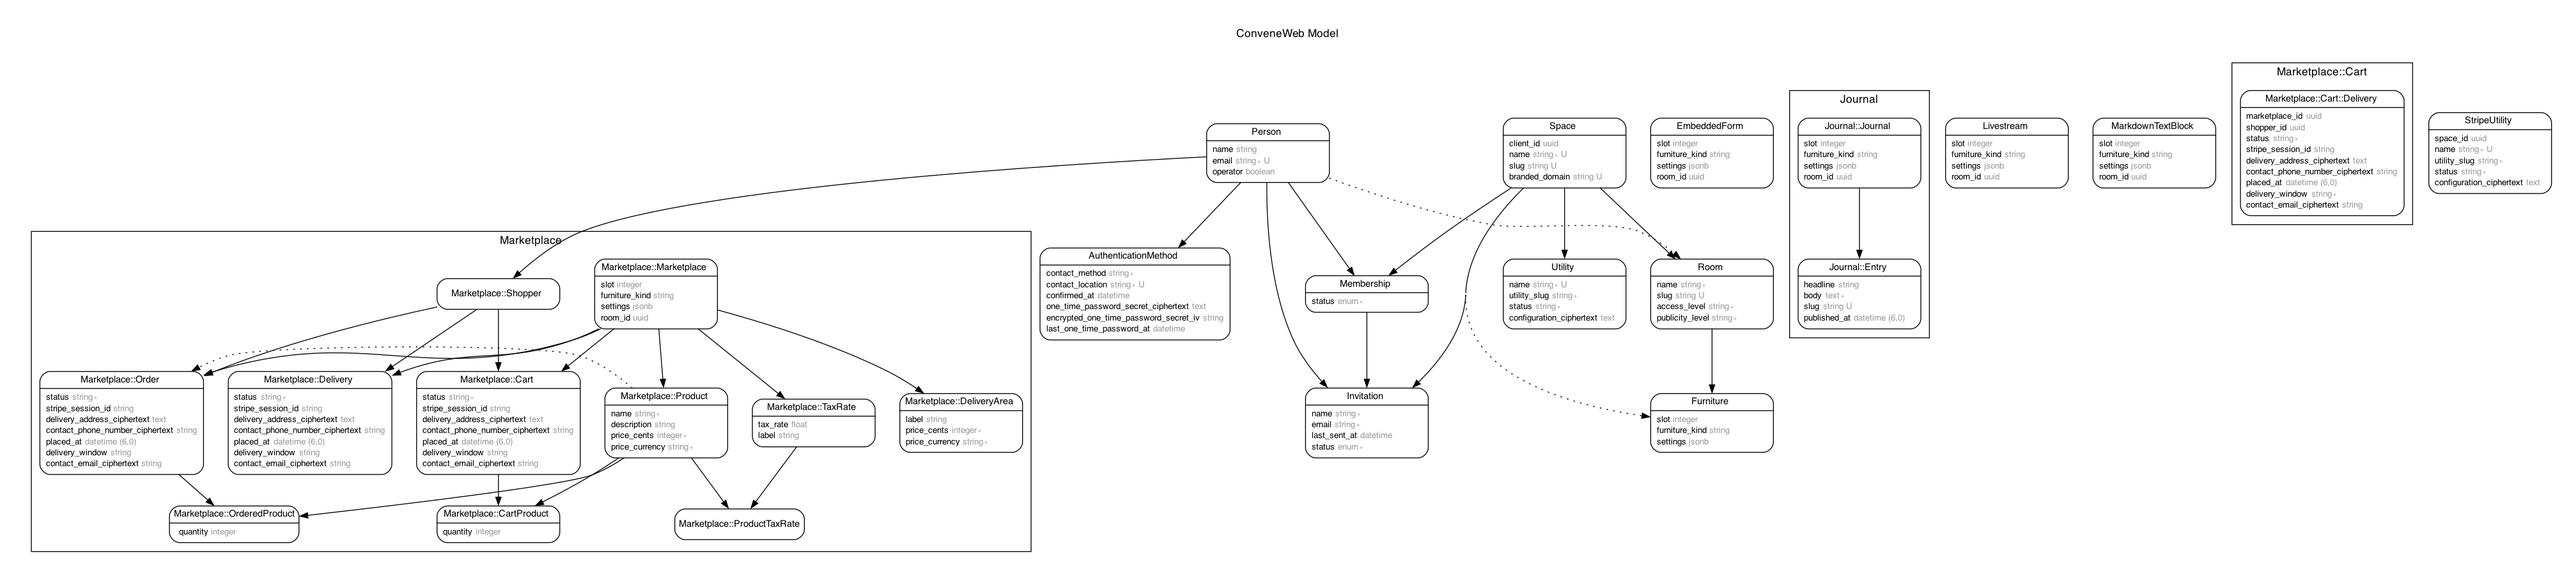
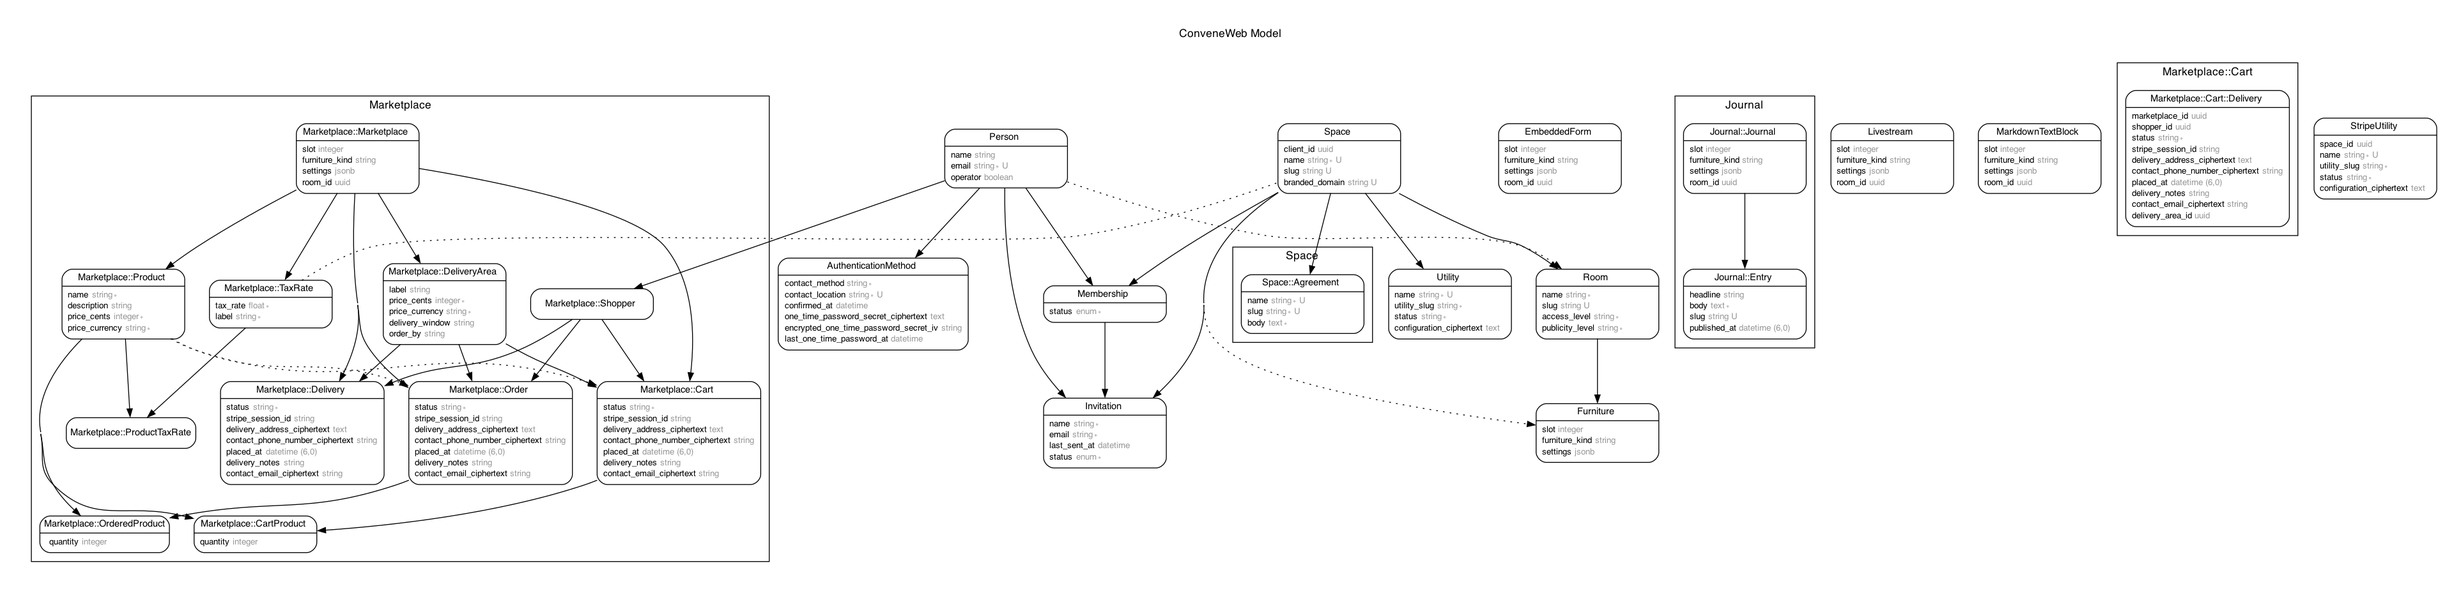
`Marketplace`: `Delivery` constraints live on `DeliveryArea`
- https://github.com/zinc-collective/convene/issues/1325
- https://github.com/zinc-collective/convene/issues/1136
- https://github.com/zinc-collective/convene/issues/1185

Allowing a `Marketplace` to specify it's delivery fees, constraints,
etc. and a `DeliveryArea` to override them was putting us in a bit of a
mess from "how does data even?!"

This consolidates everything onto `DeliveryArea`, yay!

diff --git a/spec/furniture/marketplace/cart/delivery_expectations_component_spec.rb b/spec/furniture/marketplace/cart/delivery_expectations_component_spec.rb
@@ -11,26 +11,32 @@ RSpec.describe Marketplace::Cart::DeliveryExpectationsComponent, type: :componen
   context "when the cart does not have a `delivery_area`" do
     let(:cart) { build(:marketplace_cart, marketplace: marketplace) }
 
-    context "when the `marketplace` has an `order_by` without a `delivery_window`" do
-      let(:marketplace) { build(:marketplace, order_by: "by 8AM") }
+    specify { expect(component.render?).to be_falsey } # rubocop:disable RSpec/PredicateMatcher
+  end
+
+  context "when the cart has a delivey area" do
+    let(:cart) { build(:marketplace_cart, delivery_area: delivery_area, marketplace: marketplace) }
+
+    context "when the `delivery_area` has an `order_by` without a `delivery_window`" do
+      let(:delivery_area) { build(:marketplace_delivery_area, marketplace: marketplace, order_by: "by 8AM") }
 
       it { is_expected.to have_content("Order by 8AM") }
     end
 
-    context "when the `marketplace` has a `delivery_window` without an `order_by`" do
-      let(:marketplace) { build(:marketplace, delivery_window: "at Noon") }
+    context "when the `delivery_area` has a `delivery_window` without an `order_by`" do
+      let(:delivery_area) { build(:marketplace_delivery_area, marketplace: marketplace, delivery_window: "at Noon") }
 
       it { is_expected.to have_content("Orders are delivered at Noon", normalize_ws: true) }
     end
 
-    context "when the `marketplace` has `delivery_window` and an `order_by`" do
-      let(:marketplace) { build(:marketplace, delivery_window: "at Noon", order_by: "by 8AM") }
+    context "when the `delivery_area` has `delivery_window` and an `order_by`" do
+      let(:delivery_area) { build(:marketplace_delivery_area, marketplace: marketplace, delivery_window: "at Noon", order_by: "by 8AM") }
 
       it { is_expected.to have_content("Orders placed by 8AM are delivered at Noon", normalize_ws: true) }
     end
 
-    context "when the `marketplace` has neither an `order_by` nor a `delivery_window`" do
-      let(:marketplace) { build(:marketplace) }
+    context "when the `delivery_area` has neither an `order_by` nor a `delivery_window`" do
+      let(:delivery_area) { build(:marketplace_delivery_area, marketplace: marketplace) }
 
       it {
         expect(output).to have_content("Delivers at your chosen time")

diff --git a/spec/furniture/marketplace/order_spec.rb b/spec/furniture/marketplace/order_spec.rb
@@ -13,8 +13,9 @@ RSpec.describe Marketplace::Order, type: :model do
   describe "#price_total" do
     subject(:price_total) { order.price_total }
 
-    let(:marketplace) { create(:marketplace, delivery_fee_cents: 1200) }
-    let(:order) { create(:marketplace_order, marketplace: marketplace) }
+    let(:marketplace) { create(:marketplace) }
+    let(:delivery_area) { create(:marketplace_delivery_area, marketplace: marketplace, price_cents: 1200) }
+    let(:order) { create(:marketplace_order, marketplace: marketplace, delivery_area: delivery_area) }
     let(:product_a) { create(:marketplace_product, marketplace: order.marketplace) }
     let(:product_b) { create(:marketplace_product, marketplace: order.marketplace, tax_rate_ids: [sales_tax.id]) }
     let(:sales_tax) { create(:marketplace_tax_rate, marketplace: order.marketplace, tax_rate: 5.0) }
@@ -24,7 +25,7 @@ RSpec.describe Marketplace::Order, type: :model do
       order.ordered_products.create!(product: product_b, quantity: 2)
     end
 
-    it { is_expected.to eql(product_a.price + product_b.price * 2 + marketplace.delivery_fee + (product_b.price * 2 * 0.05)) }
+    it { is_expected.to eql(product_a.price + product_b.price * 2 + delivery_area.price + (product_b.price * 2 * 0.05)) }
   end
 
   describe "#product_total" do

diff --git a/spec/furniture/marketplace/delivery_spec.rb b/spec/furniture/marketplace/delivery_spec.rb
@@ -19,24 +19,10 @@ RSpec.describe Marketplace::Delivery, type: :model do
   describe "#fee" do
     subject(:fee) { delivery.fee }
 
-    context "when there is not a marketplace delivery fee or a delivery area delivery fee" do
-      let(:delivery_area) { build(:marketplace_delivery_area, price_cents: nil, marketplace: marketplace) }
+    context "when `price_cents` is nil" do
+      let(:delivery_area) { build(:marketplace_delivery_area, marketplace: marketplace, price_cents: nil) }
 
-      it { is_expected.to eq(0) }
-    end
-
-    context "when the marketplace has a delivery fee and the delivery area has a delivery fee" do
-      let(:marketplace) { build(:marketplace, delivery_fee_cents: 25_00) }
-      let(:delivery_area) { build(:marketplace_delivery_area, price_cents: 50_00, marketplace: marketplace) }
-
-      it { is_expected.to eq(delivery_area.price) }
-    end
-
-    context "when the marketplace has a delivery fee but the delivery area does not" do
-      let(:marketplace) { build(:marketplace, delivery_fee_cents: 25_00) }
-      let(:delivery_area) { build(:marketplace_delivery_area, price_cents: nil, marketplace: marketplace) }
-
-      it { is_expected.to eq(marketplace.delivery_fee) }
+      it { is_expected.to be_zero }
     end
   end
 

diff --git a/app/furniture/marketplace/checkout.rb b/app/furniture/marketplace/checkout.rb
@@ -3,7 +3,7 @@ class Marketplace
     location(parent: :cart)
     include ActiveModel::Validations
     attr_accessor :cart
-    delegate :shopper, :marketplace, :persisted?, to: :cart
+    delegate :shopper, :delivery_fee, :marketplace, :persisted?, to: :cart
 
     # It would be nice to validate instead the presence of :ordered_products, but my attempts at this raise:
     #  ActiveRecord::HasManyThroughCantAssociateThroughHasOneOrManyReflection:
@@ -25,9 +25,7 @@ class Marketplace
       })
     end
 
-    private
-
-    def stripe_line_items
+    private def stripe_line_items
       return [] if cart.blank?
 
       stripe_cart_products_line_items + stripe_delivery_fee_line_items + stripe_taxes_line_items
@@ -51,7 +49,7 @@ class Marketplace
         {quantity: 1,
          price_data: {
            currency: "USD",
-           unit_amount: marketplace.delivery_fee_cents,
+           unit_amount: delivery_fee,
            product_data: {name: "Delivery"}
          }}
       ]

diff --git a/spec/furniture/marketplace/marketplaces_controller_request_spec.rb b/spec/furniture/marketplace/marketplaces_controller_request_spec.rb
@@ -26,11 +26,11 @@ RSpec.describe Marketplace::MarketplacesController, type: :request do
     before { sign_in(space, member) }
 
     it "updates the attributes" do
-      put polymorphic_path(marketplace.location), params: {marketplace: {delivery_fee: 50.00, delivery_window: "Tomorrow, mahhhhn...", order_by: "10AM"}}
+      marketplace_attributes = attributes_for(:marketplace, notify_emails: "notify@example.com")
+      put polymorphic_path(marketplace.location), params: {marketplace: marketplace_attributes}
+      marketplace.reload
 
-      expect(marketplace.reload.delivery_fee_cents).to eq(50_00)
-      expect(marketplace.reload.delivery_window).to eq("Tomorrow, mahhhhn...")
-      expect(marketplace.reload.order_by).to eq("10AM")
+      expect(marketplace.notify_emails).to eq(marketplace_attributes[:notify_emails])
     end
   end
 end

diff --git a/spec/furniture/marketplace/cart_spec.rb b/spec/furniture/marketplace/cart_spec.rb
@@ -14,8 +14,9 @@ RSpec.describe Marketplace::Cart, type: :model do
   describe "#price_total" do
     subject(:price_total) { cart.price_total }
 
-    let(:marketplace) { create(:marketplace, delivery_fee_cents: 1200) }
-    let(:cart) { create(:marketplace_cart, marketplace: marketplace) }
+    let(:marketplace) { create(:marketplace) }
+    let(:delivery_area) { create(:marketplace_delivery_area, price_cents: 12_00) }
+    let(:cart) { create(:marketplace_cart, marketplace: marketplace, delivery_area: delivery_area) }
     let(:product_a) { create(:marketplace_product, marketplace: cart.marketplace) }
     let(:product_b) { create(:marketplace_product, marketplace: cart.marketplace, tax_rate_ids: [sales_tax.id]) }
     let(:sales_tax) { create(:marketplace_tax_rate, marketplace: cart.marketplace, tax_rate: 5.0) }

diff --git a/app/furniture/marketplace/cart/delivery_expectations_component.rb b/app/furniture/marketplace/cart/delivery_expectations_component.rb
@@ -3,13 +3,17 @@ class Marketplace
     class DeliveryExpectationsComponent < ApplicationComponent
       attr_accessor :cart, :delivery_window, :order_by
 
-      def initialize(cart:, order_by: cart.marketplace.order_by,
-        delivery_window: cart.marketplace.delivery_window, **kwargs)
+      def initialize(cart:, order_by: cart.delivery_area&.order_by,
+        delivery_window: cart.delivery_area&.delivery_window, **kwargs)
         super(**kwargs)
 
         self.cart = cart
         self.delivery_window = delivery_window
         self.order_by = order_by
+      end
+
+      def render?
+        cart.delivery_area.present?
       end
     end
   end

diff --git a/spec/factories/furniture/marketplace.rb b/spec/factories/furniture/marketplace.rb
@@ -27,10 +27,6 @@ FactoryBot.define do
       notify_emails { Array.new((1..3).to_a.sample) { Faker::Internet.email }.join(",") }
     end
 
-    trait :with_delivery_fees do
-      delivery_fee_cents { (10_00..25_00).to_a.sample }
-    end
-
     trait :with_delivery_areas do
       transient do
         delivery_area_quantity { 1 }
@@ -42,7 +38,6 @@ FactoryBot.define do
     trait :full do
       with_tax_rates
       with_delivery_areas
-      with_delivery_fees
       with_notify_emails
     end
   end

diff --git a/app/furniture/marketplace/order.rb b/app/furniture/marketplace/order.rb
@@ -34,7 +34,9 @@ class Marketplace
       becomes(Delivery)
     end
 
-    delegate :delivery_fee, to: :marketplace
+    def delivery_fee
+      delivery_area&.price
+    end
     delegate :delivery_window, to: :delivery_area, allow_nil: true
 
     def marketplace_name
@@ -42,7 +44,7 @@ class Marketplace
     end
 
     def price_total
-      product_total + delivery_fee + tax_total
+      [product_total, delivery_fee, tax_total].compact.sum
     end
   end
 end

diff --git a/app/furniture/marketplace/marketplace.rb b/app/furniture/marketplace/marketplace.rb
@@ -12,11 +12,7 @@ class Marketplace
     has_many :tax_rates, inverse_of: :marketplace
     has_many :delivery_areas, inverse_of: :marketplace, dependent: :destroy
 
-    setting :delivery_fee_cents, default: 0
-    monetize :delivery_fee_cents
-    setting :delivery_window
     setting :notify_emails
-    setting :order_by
     setting :stripe_account
     alias_method :vendor_stripe_account, :stripe_account
     setting :stripe_webhook_endpoint

diff --git a/app/furniture/marketplace/delivery.rb b/app/furniture/marketplace/delivery.rb
@@ -16,7 +16,7 @@ class Marketplace
     alias_method :window, :delivery_window
 
     def fee
-      delivery_area&.price.presence || marketplace&.delivery_fee.presence
+      delivery_area&.price.presence || 0
     end
 
     def details_filled_in?

diff --git a/app/furniture/marketplace/delivery_area_component.rb b/app/furniture/marketplace/delivery_area_component.rb
@@ -14,7 +14,7 @@ class Marketplace
     end
 
     def example_cart
-      delivery_area.marketplace.carts.new
+      delivery_area.marketplace.carts.new(delivery_area: delivery_area)
     end
 
     delegate :order_by, to: :delivery_area
